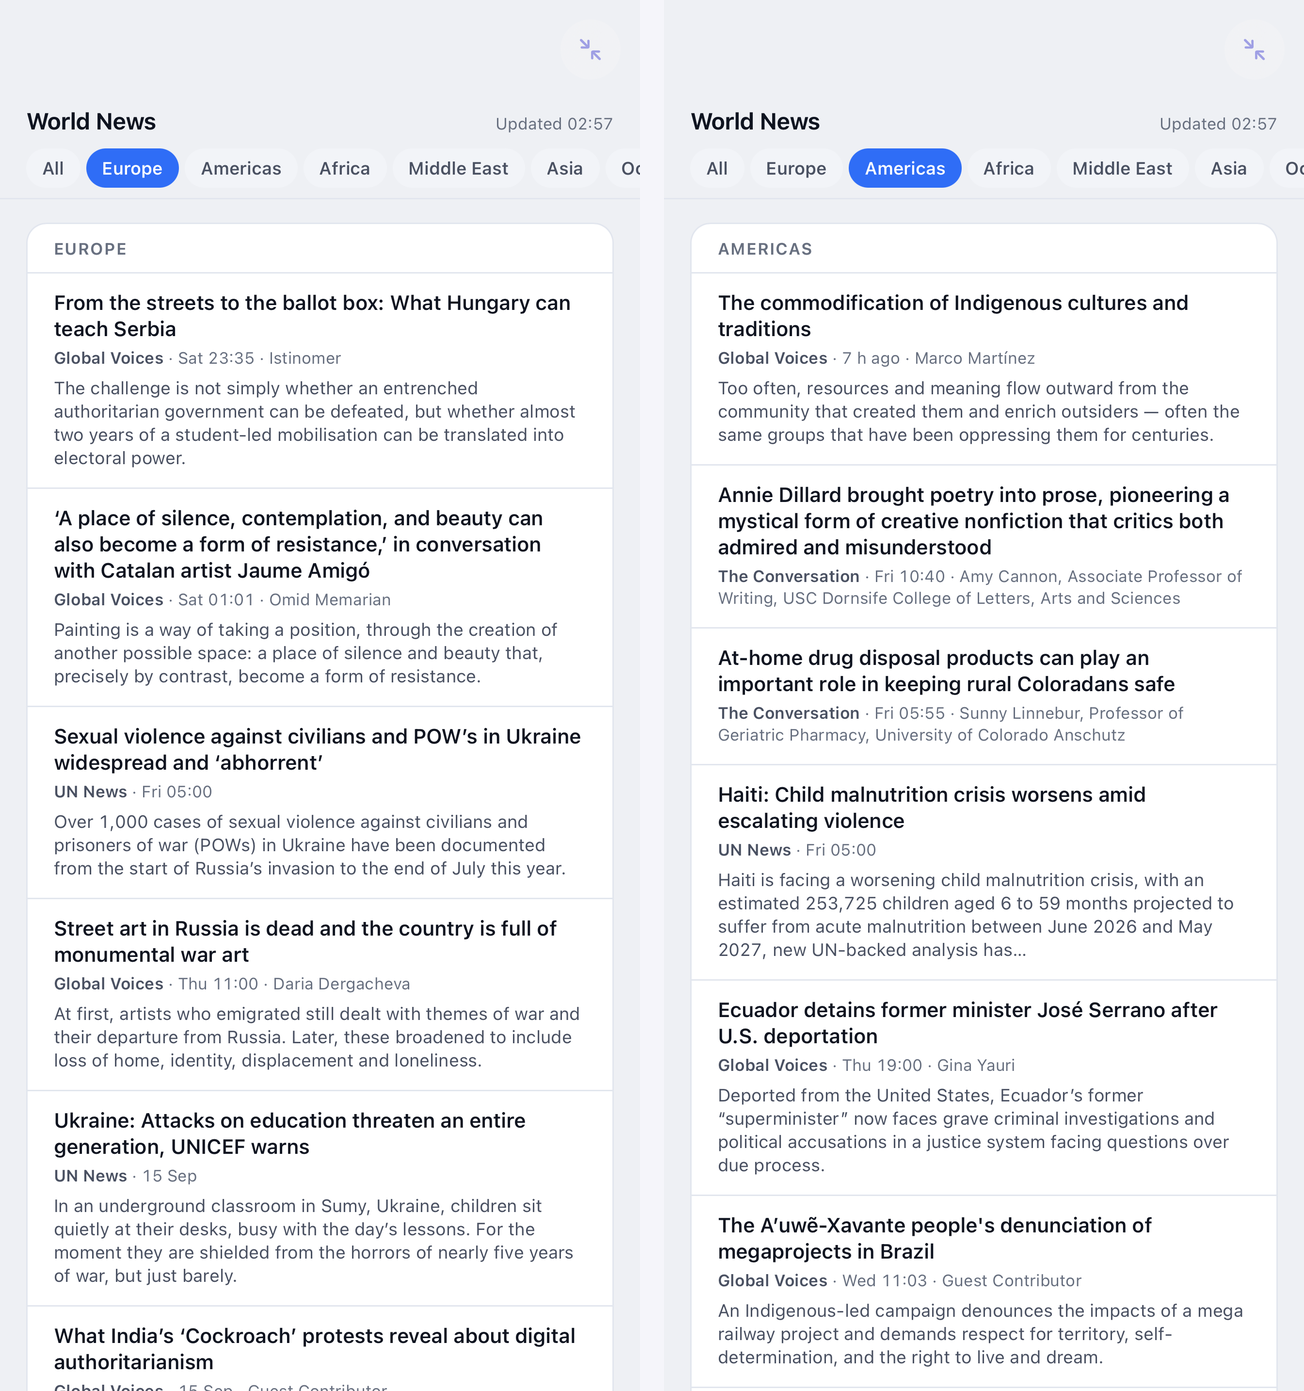
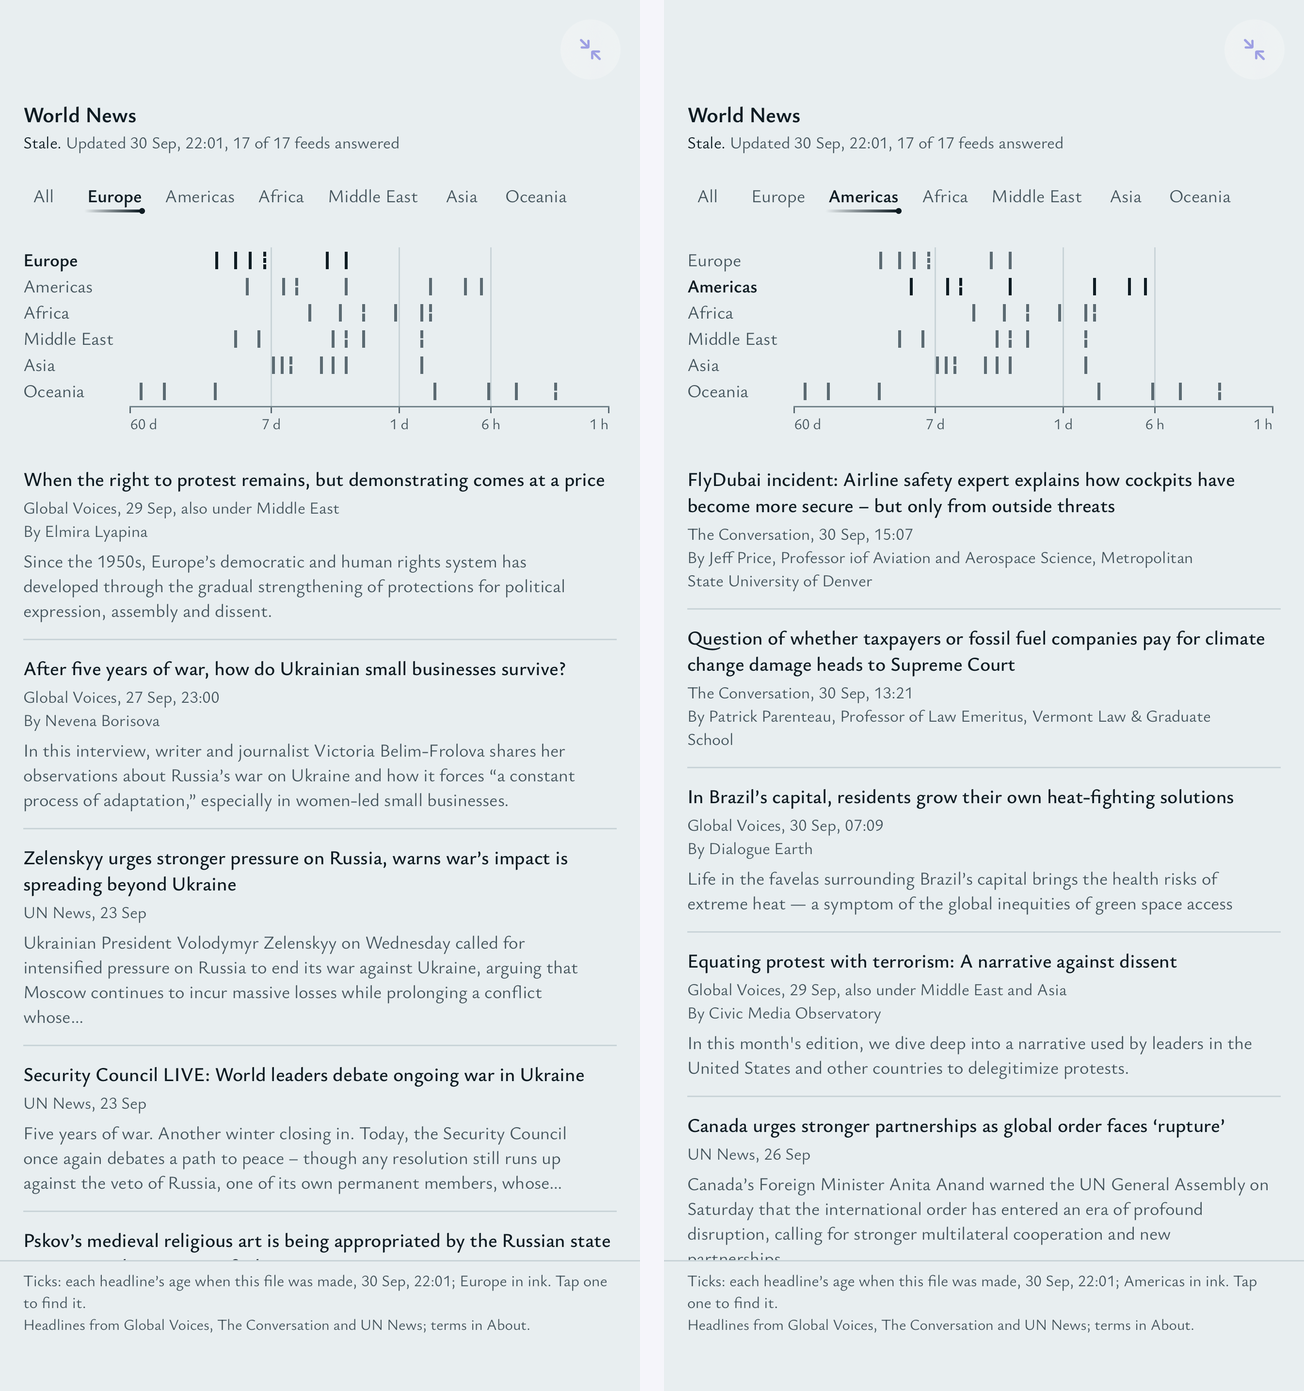
World News: the pipeline's license sentences in US English; the README picture on the house system

diff --git a/scripts/world_news.py b/scripts/world_news.py
@@ -171,8 +171,8 @@ SOURCES = {
     "Global Voices": {
         "attribution": "Headlines, summaries and links from Global Voices, "
                        "used under CC BY 3.0.",
-        "licence": "Creative Commons Attribution 3.0 — credit the author, link "
-                   "to the licence, and indicate changes: the summaries here "
+        "licence": "Creative Commons Attribution 3.0. Credit the author, link "
+                   "to the license, and indicate changes: the summaries here "
                    "are the feed's own line, shortened.",
         "terms": "https://creativecommons.org/licenses/by/3.0/",
     },
@@ -185,7 +185,7 @@ SOURCES = {
     },
     "The Conversation": {
         "attribution": "Headlines, bylines and links from The Conversation.",
-        "licence": "Creative Commons Attribution–NoDerivatives 4.0 — credit the "
+        "licence": "Creative Commons Attribution–NoDerivatives 4.0. Credit the "
                    "author and their institution and link back. Nothing of "
                    "theirs is changed here: the headline stands as written and "
                    "no article text is carried.",

diff --git a/world-news/tools/DECISIONS.md b/world-news/tools/DECISIONS.md
@@ -600,3 +600,98 @@ now holds the listener has no role, and the image keeps its image trait.
 8. In Snuggery's full screen, the header sits under the status bar and the caption band over the home
    indicator.
 9. The phone on its side on a notched model (the safe-area gutters).
+
+## The data follow-up (2026-10-02)
+
+Owner call 2, as the owner ruled it: the license lines `scripts/world_news.py` writes into the data are the
+repository's own sentences, so they are now in US English with plain punctuation. The publishers' names, their
+terms' quoted wording, every URL and the key `licence` are unchanged. My scratch is in
+`tools/.work/data-followup/` (gitignored): `orig/` (every file as it stood before), `apply_sources.py`,
+`fixpoint.py`, `about-read.mjs`, the diffs and every log named below.
+
+**The script.** Three lines changed, all inside `SOURCES` (`script.diff`): 174, 175 and 188. A full stop takes
+the place of each spaced em dash. A colon would have put two colons into one sentence in Global Voices' line,
+and the same stop in both Creative Commons lines keeps them parallel. The word after the stop is capitalized,
+and `licence` in Global Voices' line becomes `license`. The UN News line and all three attribution lines were
+already US English with no dash and are unchanged.
+
+| Source | Before | After |
+| --- | --- | --- |
+| Global Voices | `Creative Commons Attribution 3.0 — credit the author, link to the licence, and indicate changes: the summaries here are the feed's own line, shortened.` | `Creative Commons Attribution 3.0. Credit the author, link to the license, and indicate changes: the summaries here are the feed's own line, shortened.` |
+| The Conversation | `Creative Commons Attribution–NoDerivatives 4.0 — credit the author and their institution and link back. Nothing of theirs is changed here: the headline stands as written and no article text is carried.` | `Creative Commons Attribution–NoDerivatives 4.0. Credit the author and their institution and link back. Nothing of theirs is changed here: the headline stands as written and no article text is carried.` |
+
+The module still imports (`python3 -B`, so nothing was written to `__pycache__/`): 17 feeds, 6 regions, 3
+sources, and check.mjs's British pattern finds nothing in the table. `python3 -B scripts/world_news.py
+--selftest` prints `4 self-tests passed`. The offline path `--demo --out` (it fetches nothing and reads `data/` only)
+wrote `48 headlines, 48 ask rows, 0/17 feeds live` to scratch, and its `sources[]` carry the new lines: the
+public copy's refresh writes them on its next run that reaches a feed, and a push of the script starts one.
+
+**The fixture, not rebuilt.** `apply_sources.py` loads both versions of the module, the swept one and the
+pre-sweep copy in `orig/`, with `importlib`, so no string is retyped. It refuses an input whose sha256 is not
+the pin, and it proves that the fixture round-trips byte for byte through the script's own serialization
+(`json.dumps`, `indent=1`, `ensure_ascii=False`, a final newline). It also proves that the fixture's three
+`sources[]` entries equal the pre-sweep table key for key and in order. Then it sets each entry's fields from
+the swept table and writes the file as the script writes it (`apply.log`):
+
[2 lines of base64/hex data omitted]
+- Structural diff over 696 leaves: **2 strings changed** (`$.sources[0].licence` and `$.sources[1].licence`,
+  old → new as in the table above). Changed: 0 numbers, 0 booleans, 0 nulls, 0 types, 0 key sets or
+  orders, 0 array lengths, 0 ids (`regions[].key`, `items[].feed`, `feeds[].id`), 0 dates (`generatedAt`,
+  every `published`), 0 headlines (`items[].title`, `ask[].title`), and 0 anything outside `$.sources` or
+  other than a `licence` field. Counts before and after: regions 6, items 48, sources 3, feeds 17, ask 48.
+- Byte diff: 962 lines both, and only lines 517 and 523 differ. The first 27 831 B and the last 12 488 B are
+  identical. Cross-checked in Node: the two files are equal once the `licence` fields are removed, and the new
+  `sources[]` equal the `--demo` output's.
+
+**`check.mjs`.** `DATA_SHA` is now `ecb80872…`, and its comment and message say the file is the one committed
+before the pass, with its license lines swept. The British-spelling allowance for the data is narrowed to
+the key: `ALLOW` no longer lists the data, and `PHRASES` passes over `"licence":` in the data and nothing else,
+so a `licence` inside a line now fails. The proof, run before the new file went in (`regress-narrowed-on-old-data.log`):
+the narrowed check against the old data exited 1 with exactly 2 `FAIL`s, the pin and `US spelling … data/snapshot.json:1 licence`.
+That is the one `licence` in Global Voices' line; the three keys were passed over. `app.js` and `ART.md`
+keep `licence`, where they name the key.
+
+**`ART.md`** (it ships). The sha256 in the opening paragraph and in section 6's Data row is now
+`ecb80872…f910c5d2c`, and the row says the file is the same apart from the two swept license lines. Section 6's
+figures: the ZIP **86 993**, 1 007 B left, the data stored 9 156, this file about 10 600. Section 7's row 7
+said the data's spaced em dashes were in its license lines; it now says `none in the app's own text or the
+data's license lines; the publishers' words as written`. The two left are in summaries. `fixpoint.py` built
+the ZIP with `build-zips.yml`'s command on a copy of the shipped files, after first proving that the copy
+builds what `check.mjs` measured on the real folder (86 947). 86 993 is the only figure between 86 949 and
+87 029 that measures itself. **`NOTES.md` is unchanged**: its two quoted fragments of the lines (`the summaries
+here are the feed's own line, shortened` and the UN sentence) are in the new lines word for word.
+
+**Measured** (`node tools/check.mjs`): before, ZIP 86 948 and data stored 9 157. With the data alone changed,
+86 947 and 9 156. After `ART.md`, **86 993 of 88 000** and `ART.md` stored 10 591 (10 545 before). App code is
+46 119 B (17 737 stored), unchanged, and so are fonts (37 510 stored) and `NOTES.md` with `PROMPT.md` (10 346).
+
+**The tools' last runs** (2026-10-02, from `Template/world-news/` unless stated; headless Chromium 153 on this
+Mac, never phone evidence):
+
+- `node tools/check.mjs`: exit 0, 40 `ok` (40 before), `all checks pass`.
+- `node tools/test_datelines.mjs`: `all 34 checks pass`.
+- `python3 world-news/tools/art/palette.py` (from `Template/`): `ALL CHECKS PASS`.
+- `PLAYWRIGHT_MODULE=… node tools/shoot.mjs` (no `SCREENSHOTS`): exit 0, 202 `ok`, 0 `FAIL`, `all checks pass`,
+  both themes. Its About check reads each source's lines from the file. All 10 `screenshots/*.png` are
+  unchanged by sha256.
+- `about-read.mjs`: About open, every source's attribution and license line on its own line, word for word
+  from the file; 0 spaced em dashes and 0 `licence` in About; no fragment of the old lines. The page's 2
+  spaced em dashes are both in `.sum`, publishers' summaries. No console error.
+
+**Left alone, and why:**
+
+- The en dash in `Attribution–NoDerivatives` is inside the license's name and is not a spaced em dash. The
+  license's own title uses a hyphen, so matching it is the owner's call.
+- The script's comments and its `--selftest` help (`the licence flag`, `check the parser's licence and safety
+  rules`), and `SOURCES`' comment, which still calls About `its footer`. None of them reaches the data or the
+  app, and the brief kept the script's diff to the table's strings.
+- The two spaced em dashes in summaries (the publishers' words) and the key `licence`, which the app reads.
+- `screenshots/about-light.png` still shows the first words of Global Voices' old line at its bottom edge
+  (`Creative Commons Attribution 3.0 — credit the author, link to`): this run did not rewrite screenshots, and
+  a `SCREENSHOTS=1` run does.
+- This file's earlier sections, which record what was true when they were written.
+
+**For the lead, outside this folder:** HOUSE §8's World News row (86 948), `docs/CURRENT_STATE.md` and plan
+0011 D31 quote the old ZIP figure; it is now 86 993 of 88 000. The starter pack's `world-news.zip` carries
+the data and `ART.md`. Owner call 2 is closed.

diff --git a/world-news/ART.md b/world-news/ART.md
@@ -7,7 +7,7 @@ change list, the owner calls, the as-built departures, the phone checks) is in `
 which does not ship.
 
 Figures were measured on 2026-10-02 on `data/snapshot.json` as committed (made 1 Oct 2026, 05:01 UTC;
-sha256 `4a26ced7…749018409`). `python3 world-news/tools/art/palette.py` (from `Template/`) prints
+sha256 `ecb80872…f910c5d2c`). `python3 world-news/tools/art/palette.py` (from `Template/`) prints
 every color figure and ends `ALL CHECKS PASS`. Screens were read in headless Chromium at 390 × 844,
 the clock at 1 Oct 2026, 12:00 in Oslo: what the page draws, never how a phone feels.
 
@@ -273,11 +273,11 @@ built by `build-zips.yml`'s command (`zip -q -r -X … . -x '.*' '*/.*' 'screens
 | --- | --: | --: | --: |
 | App code | 21 787 | 46 119 | 200 000, the house's |
 | Fonts | 0 | 40 075 | 160 000 |
-| ZIP | 27 445 | **86 948** | **88 000, the lead's ruling (2026-10-02, plan 0011 D30)**: D5's formula gave 72 140 (27 445 × 1.25 plus 37 834 for the face) until the build had measured 84 990 with nothing cut or minified; the face alone stores 37 510, more than the stock ZIP. The ZIP is within 5 % of it: 1 052 B left (HOUSE 8), so whatever the app gains, it pays for |
-| Data | `data/snapshot.json` `4a26ced7…749018409` | the same, byte for byte | pinned by `check.mjs` |
+| ZIP | 27 445 | **86 993** | **88 000, the lead's ruling (2026-10-02, plan 0011 D30)**: D5's formula gave 72 140 (27 445 × 1.25 plus 37 834 for the face) until the build had measured 84 990 with nothing cut or minified; the face alone stores 37 510, more than the stock ZIP. The ZIP is within 5 % of it: 1 007 B left (HOUSE 8), so whatever the app gains, it pays for |
+| Data | `data/snapshot.json` `4a26ced7…749018409` | `ecb80872…f910c5d2c`: the same but the two license lines, swept to US English (`tools/DECISIONS.md`) | pinned by `check.mjs` |
 
-**The ZIP is over D5's cap.** Stored in it, the face and its license take 37 510 B, the data 9 157, the
-app code 17 737 (7 602 before the pass), this file about 10 500 and `NOTES.md` and `PROMPT.md`
+**The ZIP is over D5's cap.** Stored in it, the face and its license take 37 510 B, the data 9 156, the
+app code 17 737 (7 602 before the pass), this file about 10 600 and `NOTES.md` and `PROMPT.md`
 10 346; this file's own size moves the last digits, and `node tools/check.mjs` prints the exact
 figure. The formula leaves a 27 kB app about 14 000 B for its code and this file together; the house's
 two modules, the stylesheet, About and the Datelines need more than that, as the art pass's simulation
@@ -295,7 +295,7 @@ foresaw (about 84 000 B).
 | 4. The SaaS-card kit | the stock's white region cards with 14 px radii go; rows on the page |
 | 5. Tracked capitals | none; `EUROPE`, `SOURCES` and `CACHED` go |
 | 6. Middle-dot joins | commas (`UN News, 23 Sep`) and lines (`By …`); the stale stamp's middle dot goes |
-| 7. Spaced em dash | none in the app's own text; the data's (license lines, headlines) as written |
+| 7. Spaced em dash | none in the app's own text or the data's license lines; the publishers' words as written |
 | 8. Tinted near-black | ink `#0f1c23` as ink; the stock's `#0b0e13` ground goes |
 | 9. Monospace labels | none; the notice's `code` face goes |
 | 10. Arrows on buttons | none; the stock's arrowed help sentence becomes words, in the app and `PROMPT.md` |

diff --git a/HOUSE.md b/HOUSE.md
@@ -1246,7 +1246,7 @@ figures into its `ART.md`.
 | Snug Kart | 619 403 (after its pass and the family fixes of 2026-10-02) | 720 806 | 242 778 of 244 000 (the lead's ruling, plan 0011 D20; held at 220 070 before it) | 40 075 |
 | Running Dashboard | 1 075 089 (after its pass, the data follow-up and the family fixes of 2026-10-02) | 1 340 193 | 244 994 of 245 000 (the lead's rulings, plan 0011 D23–D24; held at 236 521 before them) | 41 291 |
 | Finances | about 129 800 (after its pass; `ART.md`'s own size moves the last digits) | 131 000 (the lead's ruling, plan 0011 D27; 125 304 by D5's formula) | 123 733 of 200 000 | 40 075 |
-| World News | 86 948 (after its pass; `ART.md`'s own size moves the last digits) | 88 000 (the lead's ruling, plan 0011 D30; 72 140 by D5's formula) | 46 119 of 200 000 | 40 075 |
+| World News | 86 993 (after its pass and the data follow-up of 2026-10-02; `ART.md`'s own size moves the last digits) | 88 000 (the lead's ruling, plan 0011 D30; 72 140 by D5's formula) | 46 119 of 200 000 | 40 075 |
 | Outdoor Window | 29 939 | 75 257 | 50 637 | 0 |
 | Power Hours | 25 977 | 70 305 | 46 466 | 0 |
 | Hello Live | 3 730 | 42 496 | 7 281 | 0 |
